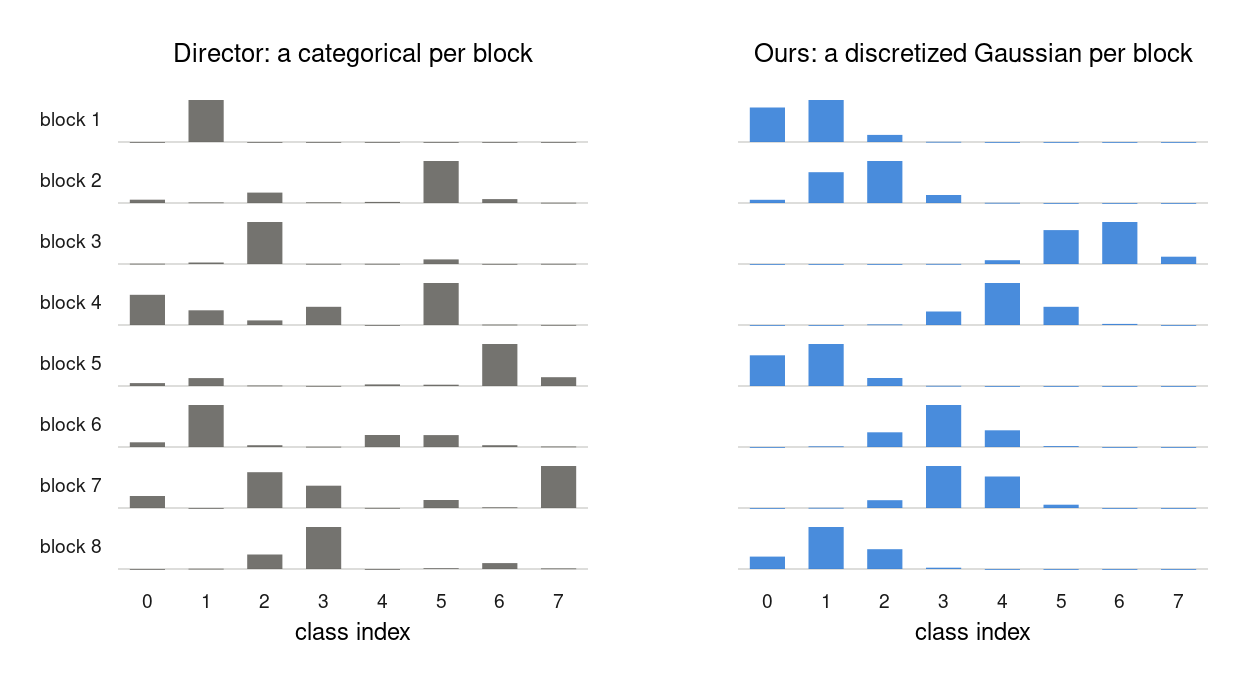
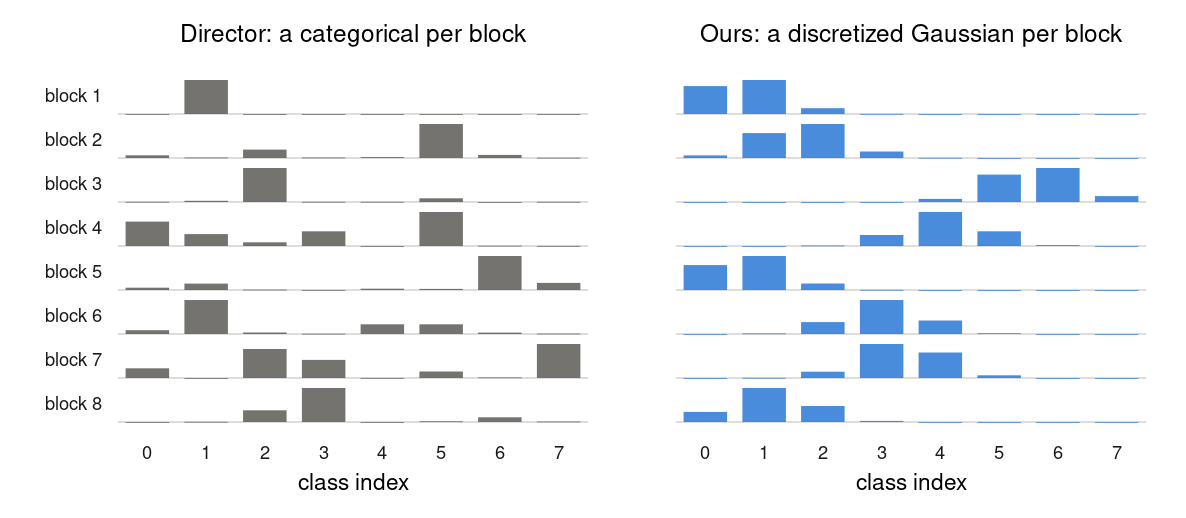
Compact the block-distribution figure
Row height 46->38 and row gap 15->6, panel gap 150->88, top and bottom padding
trimmed, and the bars widened from 0.6 to 0.74 of their slot. 687 -> 518 svg
units tall, so it takes noticeably less of the page while the two shapes stay
just as distinguishable.

The row gap only has to keep the tallest bar clear of the baseline above it: a
bar tops out at RH-4, leaving 4 units of clearance at RGAP=6.

Claude-Session: https://claude.ai/code/session_01UoFNqat22AbqJsV7sCUJhH

diff --git a/experiments/manager_head/plot_block_distributions.py b/experiments/manager_head/plot_block_distributions.py
@@ -72,9 +72,11 @@ def esc(s):
 
 
 def build(rows_cat, rows_gau):
-    PW, GAP = 470, 150
-    PL, PR, PT, PB = 118, 40, 96, 118
-    RH, RGAP = 46, 15                       # row height and spacing
+    PW, GAP = 470, 88
+    PL, PR, PT, PB = 118, 40, 76, 96
+    # Rows sit close together: a bar tops out at RH-4, so RGAP only has to keep
+    # the tallest bar clear of the baseline above it.
+    RH, RGAP = 38, 6                        # row height and spacing
     PH = L * RH + (L - 1) * RGAP
     W = PL + 2 * PW + GAP + PR
     H = PT + PH + PB
@@ -98,7 +100,7 @@ def build(rows_cat, rows_gau):
             o.append(f'<line x1="{x0}" y1="{base:.1f}" x2="{x0 + PW}" '
                      f'y2="{base:.1f}" stroke="{GRIDC}" stroke-width="1.6"/>')
             slot = PW / C
-            bw = slot * 0.6
+            bw = slot * 0.74
             hi = max(p.max(), 1e-9)
             for j in range(C):
                 cx = x0 + (j + 0.5) * slot
